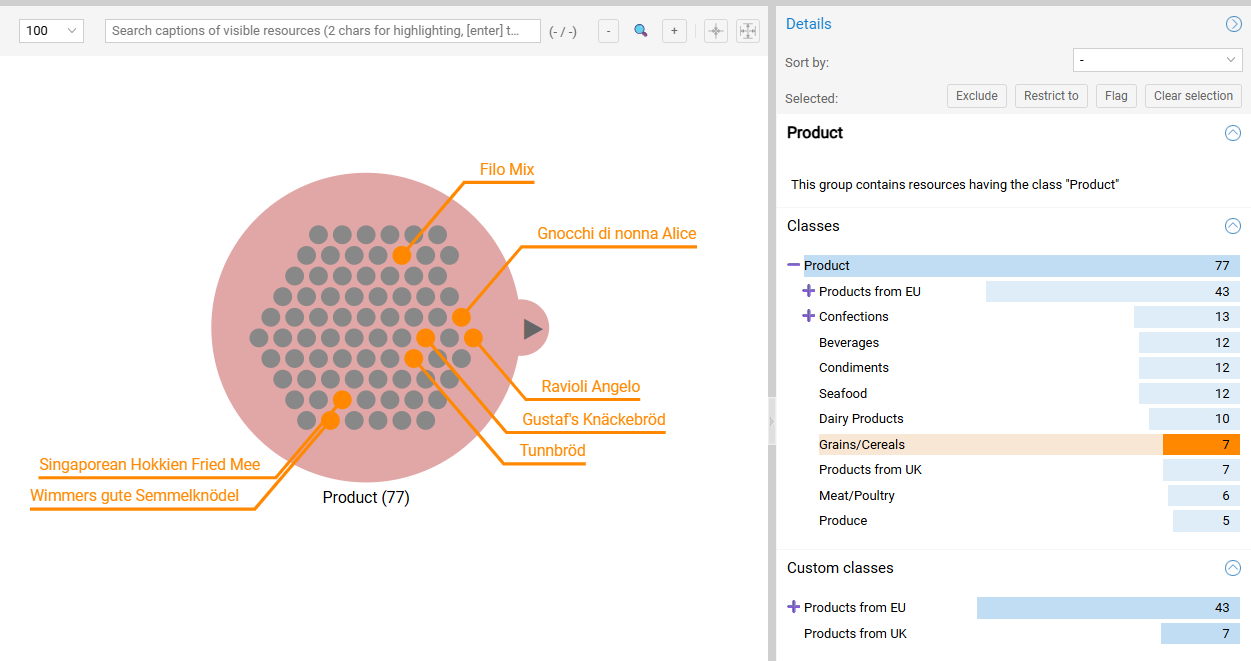
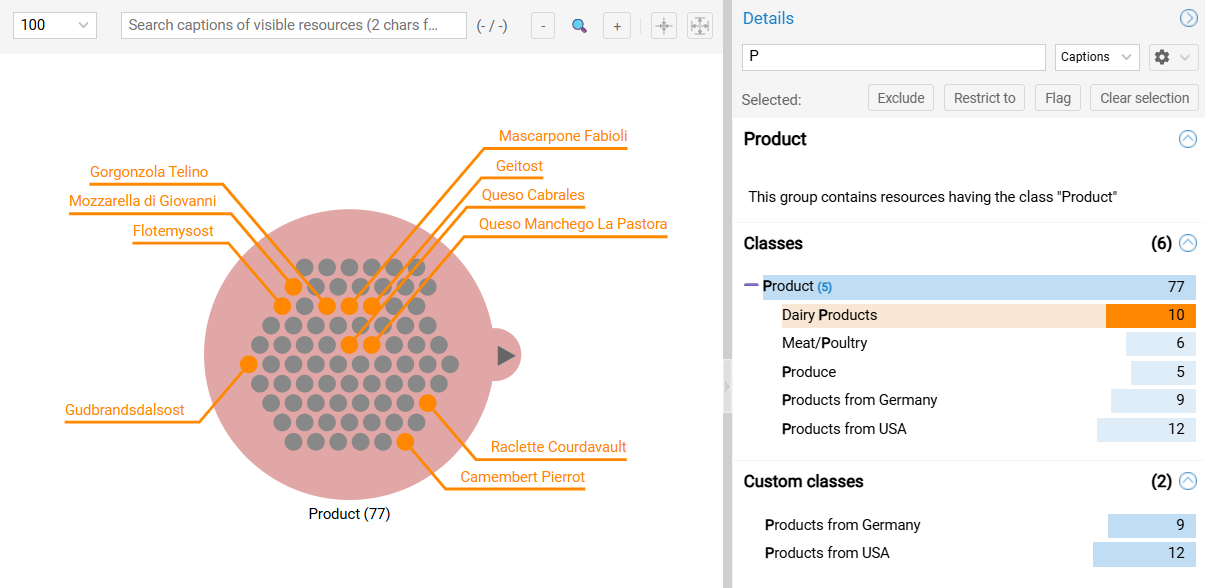
docs: update Graph Insights user guide to v19.2.0

Changed region(s): [[0.0, 0.0, 1.0, 1.0], [0.0307, 0.2143, 0.5527, 0.8878], [0.7369, 0.0612, 1.0, 0.2449]]

diff --git a/docs/explore-and-author/graph-exploration/graph-insights/features/groups.md b/docs/explore-and-author/graph-exploration/graph-insights/features/groups.md
@@ -6,7 +6,7 @@ Groups are sets of resources with the same class that are the starting and branc
 
 ---
 
-## Group Details
+## Group Details {#group-details}
 
 Selecting a group opens the **group details** in the right pane.
 
@@ -21,14 +21,22 @@ The header contains:
 
 ### Histogram Sections {#histograms}
 
-The **histogram sections** display the distribution of classes within a group. It allows analysts to scrutinize class composition (eg. spot unexpected or missing classes) and perform logical set operations (union, intersection, difference) to restrict the contents of the groups.
+The **histogram sections** display the distribution of classes within a group. It allows analysts to scrutinize class composition (e.g., spot unexpected or missing classes) and perform logical set operations (union, intersection, difference) to restrict the contents of the groups.
 
 - **Scope:** The panel displays counts for all **classes** (including **[user-defined classes](persistence.md#custom-categories)**) present within the selected group.  
   *Remark: If user-defined classes are present, a second histogram is shown for better overview* 
-- **Hierarchy:** Use the `(+)` icons to expand a class (e.g., `Confections`) to reveal the distribution of its sub-classes.
-- **Sorting:** Use the dropdown to order bars by `Name` (Alphabetical) or `Quantity` (Cardinality).
-
+ 
 ![Histogram Panel Overview](../assets/histograms.png){ class="bordered" width="35%" }
+
+#### Search and View Controls
+
+The histogram panel includes tools to filter and organize the displayed classes:
+
+- **Search:** Enter text to filter the visible bars. Use the scope dropdown to target `Captions`, `IRIs`, or `All`.
+- **View settings (cogwheel):**
+    - **Views:** Switch between `Tree view` (respects the class hierarchy, use `(+)` icons to expand) and `List view` (flattens all items).
+    - **Sorting:** Order the bars using `Sort by name` (alphabetical) or `Sort by count` (cardinality).
+    - **Hide IRIs:** Toggles the display of the underlying identifiers on the captions.
 
 #### Resources Flagging {#flagging}
 
@@ -74,7 +82,7 @@ As filters are applied, the **group caption** updates to reflect the mathematica
 
 The **expansion menu** of a group presents the options available for adding a non-empty step to the traversal. It tells you which classes are reachable via which direction of which object properties.
 
-1.  **Action:** Click any group to open the menu.
+1.  **Action:** Point at a group and click the arrow that appears to its right.
 2.  **Select:** The menu presents the hierarchy of connecting (directed) **object properties**, organized by target **class**.    
     - If the data model includes sub-object properties, point the parent object property to open the sub-menu with its child object property.*
 3.  **Action:** Click an object property with the required direction for the selected target **class** to add a new connection beam to the exploration.
@@ -100,3 +108,15 @@ Right-click a group or its caption to access its context menu.
 
     - The query is intended to be used directly on the database for various datasets with the same model (or slight variations thereof).
     - Use the notes to explain what is the content of the group in your own words. This is particularly relevant for collaborative work.
+
+
+### Removing Filters {#remove-group-filters}
+
+You can selectively remove different types of filters applied to a group directly from its context menu.
+
+- **Action:** Right-click a filtered group to open its context menu and select a removal action:
+    - `Remove class filters:` Clears set operations applied via the [histograms](#filtering).
+    - `Remove data property filters:` Clears filters (e.g., numeric, string matches) applied via the [resource table](objects-table.md#filtering).
+    - `Remove resource selection filters:` Clears filters that restricted the group to specific resources (e.g., via [table row checkboxes](objects-table.md#filter-types) or [restricting to flagged resources](objects.md#restrict-groups-by-flags)).
+    - `Remove all filters:` Clears all the above filters.
+- **Outcome:** The selected filter layer is removed, the group updates, and the exploration tree automatically recalculates to reflect the restored resources.

diff --git a/docs/explore-and-author/graph-exploration/graph-insights/features/objects.md b/docs/explore-and-author/graph-exploration/graph-insights/features/objects.md
@@ -18,9 +18,19 @@ Select a visible resource in a group or its row in the group table to open the `
 2.  **Classes:** List of all classes assigned to the resource.
 3.  **Data Properties:** List of all data properties organized in sections by their "usage domain" classes (see below).
 
-### Controls
-- **Hide empty fields:** Toggles visibility of data properties that have no value for this specific resource.
-- **Copy Data:** Right-click any row to copy the **data property** or **data property assertion**.
+### Search, View, and Interaction Controls
+
+Use the search bar and configuration menus at the top of the details pane to quickly locate specific information.
+
+- **Search scope:** Enter text to filter the pane. Use the adjacent dropdown to target `Captions`, `Values`, `IRIs`, or `All`.
+    - **Outcome:** Matching rows are highlighted, and section headers display the count of matching data properties aligned to the right. If the scope is set to `IRIs` or `All`, the data properties will additionally display their underlying IRIs.
+- **View settings (cogwheel):**
+    - **Tree view:** Organizes data properties into sections by their defining classes (default behavior).
+    - **List view:** Flattens the hierarchy, displaying all data properties in a single "All data properties" list.
+    - **Sort by name:** Sorts the data properties keys alphabetically.
+    - **Hide empty fields:** Toggles the visibility of data properties that have no value for this specific resource.
+    - **Hide IRIs:** Toggles the display of the underlying identifiers.
+- **Copy data:** Right-click any row to copy the **data property** or **data property assertion**.
 
 !!! info "Why are there sections?"
 
@@ -48,8 +58,15 @@ The standard flags are persistent markers used to track the appearance of specif
 !!! info "About Persistence"
 
     - A flag will appear anytime a new instance of the flagged resource is visible in a subsequent exploration step (even in new explorations).
-    - Flags and notes can be removed using the context-menu of the resource, the group, or the exploration (canvas). 
+    - Flags and notes can be removed using the context-menu of the resource, the group, or the exploration (canvas).
 
+
+#### Restricting Groups by Flags {#restrict-groups-by-flags}
+
+Once resources are flagged, you can use these visual markers to filter a group down to your items of interest.
+
+- **Action:** Right-click a group containing standard flags to open its context menu and select `Restrict group to flagged resources`.
+- **Outcome:** The group is filtered to retain *only* the flagged resources. (Note: Under the hood, this behaves exactly like a manual [resource selection filter](objects-table.md#filter-types) applied via the table and can be cleared using [`Remove resource selection filters`](groups.md#remove-group-filters)).
 
 ### Temporary Flags {#temporary-flags}
 
@@ -121,7 +138,7 @@ Analysts can focus on a specific resource within a group to analyze its relation
 
 ### Resource Exploration from a Group
 
-Expand the exploration with specific connections from a single resource within a larger group.
+Expand the exploration with connections from a single resource within a larger group.
 
 - **Action:** Right-click a resource to open its context menu, open `Explore connections of the resource`, and select the target class and connecting object property and direction (just like a group expansion).
 - **Outcome:** A new connection beam connects the individual resource to a new group to its right.
@@ -135,7 +152,7 @@ Expand the exploration with specific connections from a single resource within a
 
 ### Simple Resource Exploration
 
-Start a new exploration tree with a specific resource found in the current exploration.
+Start a new exploration tree with any resource found in the current exploration.
 
 - **Action:** Right-click the resource to open its context menu and select `Start exploration with resource`.
 - **Outcome:** The canvas clears and places the single resource as starting point of the exploration.

diff --git a/docs/explore-and-author/graph-exploration/graph-insights/features/persistence.md b/docs/explore-and-author/graph-exploration/graph-insights/features/persistence.md
@@ -42,7 +42,7 @@ If you load and modify a loaded exploration (e.g., add a filter), Graph Insights
 Add context to the analysis by attaching text notes to important groups. 
 
 - **Add note:** Right-click a group to open its context menu  and select `Add note`.
-- **Toggle visibility:** Use the group context menu to toggle the visibility of a single note, or use the context menu of the canvas (or the `Exploration` top menu) and select `Hide/Show all group notes`.
+- **Toggle visibility:** Use the group context menu to toggle the visibility of a single note, or use the context menu of the canvas (or the `Exploration` top menu) and select `Hide/Show all group notes`. This default global visibility state is saved locally and persists across browser sessions.
 
 ![Saved Exploration Context Menu](../assets/save-exploration-context-menu-and-notes.png){ class="bordered" width="75%" }
 
@@ -55,7 +55,7 @@ Add context to the analysis by attaching text notes to important groups.
   
 ## User-Defined Classes {#custom-categories}
 
-**User-defined  Graph Insights classes** are customizable tools designed to analyze data with specific goals (e.g. identifying high-risk suppliers based at a given location and having a specific contract type).
+**User-defined  Graph Insights classes** are customizable tools designed to analyze data with specific goals (e.g., identifying high-risk suppliers based at a given location and having a specific contract type).
 
 They act as **"virtual classes"**, refining the model within the exploration layer without altering the underlying ontology.
 
@@ -78,7 +78,7 @@ A user-defined Graph Insights class can be defined for any group in any explorat
 
 !!! tip "Hints"
 
-    - User-defined classes also appear in an additional specific Graph Insights class histogram for improved visibility (e.g. it allows you to see at first glance how many "High-Risk Suppliers" exist within a larger "Supplier" group).
+    - User-defined classes also appear in an additional Graph Insights class histogram for improved visibility (e.g., it allows you to see at first glance how many "High-Risk Suppliers" exist within a larger "Supplier" group).
     - You can create a user-defined class based on *another* user-defined class.
 
 

diff --git a/docs/explore-and-author/graph-exploration/graph-insights/features/objects-table.md b/docs/explore-and-author/graph-exploration/graph-insights/features/objects-table.md
@@ -17,7 +17,9 @@ The panel displays a spreadsheet view where rows represent resources and columns
 
 ![Group Table Overview](../assets/group-table.png){ class="bordered" width="85%" }
 
-- **Column Visibility:** Click `Columns` to hide/show specific data properties or reorder them via drag-and-drop.
+- **Column Visibility:** Click `Columns` to hide/show data properties, or reorder them via drag-and-drop.
+    - **Sub-class data properties:** The menu includes a dedicated expandable section listing the data properties specific to the sub-classes of the group.
+    - **Data Property details:** Hover over any item in the list to view its origin classes and datatype.
 - **Sorting:** Click a column header to sort and toggle the sorting direction.
 - **Copying Data:** Right-click any cell to copy its value.
 - **Predecessors:** The `#Predecessors` column displays the count of incoming links from the parent group. Sort this column to identify the most connected resources.
@@ -40,11 +42,11 @@ Filtering is a two-step process to prevent unnecessary database queries.
 
 ![Filter Status Icons](../assets/filtered-group-and-column.png){ class="bordered" width="85%" }
 
-### Filter Types
+### Filter Types {#filter-types}
 
+- **Resource selection column:** Check rows to restrict the group to these resources with the `Restrict to selection` button.
 - **Numeric/Date:** Range controls (greater than, less than, equals).
-- **String:** Text matching (contains, starts with, regex).
-- **Resource selection:** Check specific rows to restrict the group to those individual resources.
+- **String:** Text matching (contains, starts with, [regex](https://docs.oracle.com/javase/8/docs/api/java/util/regex/Pattern.html)).
 - **Existence:** Filter with `Keep only rows with (non-)empty cells`.
 
 ![Numeric Filter Menu](../assets/numeric-filter-nested-menu.png){ class="bordered" width="85%" }

diff --git a/docs/explore-and-author/graph-exploration/graph-insights/tutorial.md b/docs/explore-and-author/graph-exploration/graph-insights/tutorial.md
@@ -11,23 +11,23 @@ This tutorial demonstrates a workflow of Graph Insights using the **Northwind** 
 
 !!! info "Demo Data"
 
-    The demo data using in this tutorial is available here: [northwind-data.ttl](assets/northwind-data.ttl).
+    The demo data used in this tutorial is available here: [northwind-data.ttl](assets/northwind-data.ttl).
     You can import the data:
 
-    - by using the web interface (Explore -> Knowledge graphs → Add new graph) or
+    - by using the web interface (Explore → Knowledge graphs → Add new graph) or
     - by using the [command line interface](../../../automate/index.md):
 
         ```sh
         cmemc graph import northwind-data.ttl http://example.org/northwind/
         ```
 
-    !!! tip "Marketplace Package (preview)"
+!!! tip "Marketplace Package (preview)"
 
-        The demo data is also available as a _Marketplace Package_ and can be installed with `cmemc`:
+    The demo data is also available as a _Marketplace Package_ and can be installed with `cmemc`:
 
-        ```sh
-        cmemc package install ecc-northwind-project
-        ```
+    ```sh
+    cmemc package install ecc-northwind-project
+    ```
 
 ## Business Scenario
 
@@ -47,7 +47,7 @@ Every exploration requires a starting point. We begin with the central entity: T
 2.  Drag it to the center of the canvas.
 3.  **Outcome:** A group appears, representing the entire inventory (e.g., 77 Products).
 
-![Start with Product Category](assets/tutorial-start-with-product.png){ class="bordered" width="80%" }
+![Start with Product Category](assets/tutorial-start-with-product.png){ class="bordered" width="65%" }
 
 ---
 

diff --git a/docs/explore-and-author/graph-exploration/graph-insights/concepts.md b/docs/explore-and-author/graph-exploration/graph-insights/concepts.md
@@ -70,11 +70,11 @@ Access instance-level information like the data property values of the resources
 
 #### Single Resource
 
-Select a resource visible inside a group to display its classes and data properties in the right `Details` pane.
+Select a resource visible inside a group to display its [details](features/objects.md#object-details) in the right pane (classes and data properties).
 
 #### Group
 
-Select a group to display a textual description of its contents and histograms of the distribution of classes of its resources.
+Select a group to display its [details](features/groups.md#group-details) in the right pane (a textual description of its contents and histograms of the distribution of classes of its resources).
 
 Open the [resource table](features/objects-table.md) to access the highly configurable tabular listing of all resources of the group and their data properties.
 
@@ -99,5 +99,5 @@ Narrow down any group to match your current focus using [data property filters](
 
 - **Images:** [Export](features/persistence.md#export-visuals) the canvas as SVG or PNG images.
 - **CSV data:** Download of the resources of a group or of the table view of a group or connection.
-- **Query snippets:** Copy the SPARQL that returns the resources of a group or the data in the table view of a group or connection for use (e.g. a dashboard).
+- **Query snippets:** Copy the SPARQL that returns the resources of a group or the data in the table view of a group or connection for use (e.g., a dashboard).
 - **[JSON Sharing](features/persistence.md#json-sharing):** Share explorations as JSON-serialization.

diff --git a/docs/explore-and-author/graph-exploration/graph-insights/features/canvas-ui.md b/docs/explore-and-author/graph-exploration/graph-insights/features/canvas-ui.md
@@ -2,7 +2,7 @@
 
 # The Exploration Canvas
 
-The **exploration canvas** is the primary workspace in Graph Insights. It displays the exploration tree, allowing users to manipulate layout, throttle data density, and rapidly locate specific resources within the detailed groups.
+The **exploration canvas** is the primary workspace in Graph Insights. It displays the exploration tree, allowing users to manipulate layout, throttle data density, and rapidly locate resources within the detailed groups.
 
 ## Toolbar Controls
 
@@ -37,7 +37,7 @@ Graph Insights maintains a session history stack.
 ## Group Rendering Controls (Max. resources) {#object-threshold-logic}
 
 To optimize browser performance and visual density, Graph Insights uses two different renderings for groups depending on their cardinality.
-Use the `Max. resources` dropdown to set the threshold.
+Use the `Max. resources` control in the top toolbar to select a predefined threshold from the dropdown, or click inside the field to enter another number.
 
 ### Count-Only Rendering (Count > Threshold)
 
@@ -57,7 +57,7 @@ If the count is *below* the limit, each resource is rendered as a dot within the
 
 ## Global Search (Visible Resources) {#global-search}
 
-Locate specific resources **among those currently visible** in the groups of the exploration.
+Locate resources **among those currently visible** in the groups of the exploration.
 
 - **Scope:** Searches only rendered resources on the canvas. It does *not* query the backend for hidden data.
 - **Behavior:** Matches are tagged with a (temporary) orange flag and caption.

diff --git a/docs/explore-and-author/graph-exploration/graph-insights/features/index.md b/docs/explore-and-author/graph-exploration/graph-insights/features/index.md
@@ -21,3 +21,23 @@ Documentation for the core components of the Graph Insights interface.
 
 - **[Histograms](groups.md#histograms):** class distribution analysis and facet-like set operations (union, intersection, difference).
 - **[Persistence](persistence.md):** Saved explorations, user-defined classes, and JSON sharing.
+
+---
+
+## Global Keyboard Navigation
+
+Graph Insights supports standard keyboard navigation for accessibility and rapid interaction across all views, including the class tree, data tables, and menus.
+
+- `TAB` / `SHIFT` + `TAB`: Moves focus to the next or previous interactive element.
+- Arrow Keys (`UP`, `DOWN`, `LEFT`, `RIGHT`): Navigates within lists, trees, menus, and subpanels.
+- `ENTER`: Triggers the focused element (e.g., a button or menu item) or executes the default action.
+- `SPACE`: Toggles a checkbox state or triggers the focused element.
+- `ESC`: Closes the currently active temporary element (e.g., popup windows, context menus, or dropdowns).
+- `SHIFT` + `ENTER`: Inserts a line break within text input fields (e.g., group notes).
+
+### Context Menus
+
+To open a context menu using the keyboard:
+
+- **Windows:** Press `SHIFT` + `F10`.
+- **macOS:** Press `CTRL` + `ENTER` *(Note: Supported in Firefox; Chrome behavior may vary)*.

diff --git a/docs/explore-and-author/graph-exploration/graph-insights/features/connections.md b/docs/explore-and-author/graph-exploration/graph-insights/features/connections.md
@@ -40,7 +40,7 @@ By default, the exploration applies a **left-join pattern**: The left group rema
 
 !!! warning "Effects of Subsequent Updates"
 
-    Because the switch to an **inner-join pattern** is permanent, any further filtering of the right group will modify the contents of the right group.
+    Because the switch to an **inner-join pattern** is permanent, any further filtering of the right group will modify the contents of the left group.
 
     In the example above, narrowing `Confections | Beverages` to `Beverages` only will remove from the `Supplier` group the ones who do not provide beverages.
 
@@ -57,6 +57,7 @@ By default, the exploration applies a **left-join pattern**: The left group rema
 Right-click a connection to manage the exploration structure:
 
 - **Do not restrict left group:** Disables backpropagation (reverts to left-join).
+- **Remove filters:** Clears filters applied via the [connection table](#connection-table).
 - **Repeat expansion:** Transitively expands the hierarchy (available only for expansions where the left and right groups have the same class - e.g., `is_friend_with`).
 - **Remove:** Deletes the connection beam and its entire subtree.
 

diff --git a/docs/explore-and-author/graph-exploration/graph-insights/features/application-settings.md b/docs/explore-and-author/graph-exploration/graph-insights/features/application-settings.md
@@ -40,6 +40,14 @@ When no group or connection is selected, the right pane displays the **database 
     - **Classes:** Lists all available classes and their cardinality.
     - **Object Properties:** Lists all object properties with their object property assertions count.
 
-![Database Summary Panel](../assets/database-summary.png){ class="bordered" width="30%" }
+![Database Summary Panel](../assets/database-summary.png){ class="bordered" width="35%" }
 
-**Sorting:** Use the `Sort by` dropdown to order lists by `Name` (alphabetical) or `Quantity` (cardinality) to identify the largest entities.
+#### Search and View Controls
+
+Use the controls at the top of the pane to navigate the summary:
+
+- **Search:** Enter text to filter the summary lists. Use the scope dropdown to restrict the search to `Captions`, `IRIs`, or `All`.
+- **View Settings (cogwheel):**
+    - **Views:** Switch between `Tree view` and `List view`.
+    - **Sorting:** Order lists using `Sort by name` (alphabetical) or `Sort by count` (cardinality) to identify the largest entities.
+    - **Hide IRIs:** Toggles the display of the underlying identifiers.

diff --git a/docs/explore-and-author/graph-exploration/graph-insights/navigating-to-cmem.md b/docs/explore-and-author/graph-exploration/graph-insights/navigating-to-cmem.md
@@ -33,10 +33,12 @@ There are two ways to trigger this navigation:
 - **Action:** Right-click a specific resource dot within a group to open its context menu.
 - **Select:** `View in CMEM`.
 
-![View Resource in Corporate Memory from Canvas](graph-insights-view-in-cmem-resources.png){ class="bordered" width="75%" }
+![View Resource in Corporate Memory from Canvas](graph-insights-view-in-cmem-resources.png){ class="bordered" width="60%" }
 
 **From the Details Pane**
 
 - **Action:** Select a resource on the canvas or in the resource table to load its details in the right pane.
-- **Select:** Click the `View in CMEM` button located at the top of the Details pane.
+- **Select:** Open the view settings (cogwheel) located at the top-right of the details pane and click `View in CMEM`.
 - **Outcome:** The specific instance record opens in a new tab.
+
+![View Resource in Corporate Memory from Details](graph-insights-view-in-cmem-resource-details.png){ class="bordered" width="45%" }

diff --git a/docs/explore-and-author/graph-exploration/graph-insights/features/category-tree.md b/docs/explore-and-author/graph-exploration/graph-insights/features/category-tree.md
@@ -19,7 +19,14 @@ The tree displays the hierarchical taxonomy of the dataset:
 
 - **Hierarchy:** Parent-child relationships (e.g., `Agent` &rarr; `Customer`) reflect the underlying schema.
 - **Counts:** The number in parentheses (e.g., `(132)`) indicates the cardinality of the class.
-- **Search:** Filters the tree to locate rapidly a specific class (or saved exploration).
+
+### Search and View Controls
+
+- **Search:** Enter text to locate a class or saved exploration.
+  - *Note:* Initiating a search automatically switches the display into a filtered flat list view and disables the view settings until the search is cleared.
+- **View Settings (cogwheel):** When the search bar is empty, click the cogwheel to configure the display:
+  - **Views:** Switch between `Tree view` (hierarchical) and `List view` (flat).
+  - **Sorting:** Order the items using `Sort by name` or `Sort by count`.
 
 ### Start an Exploration
 
